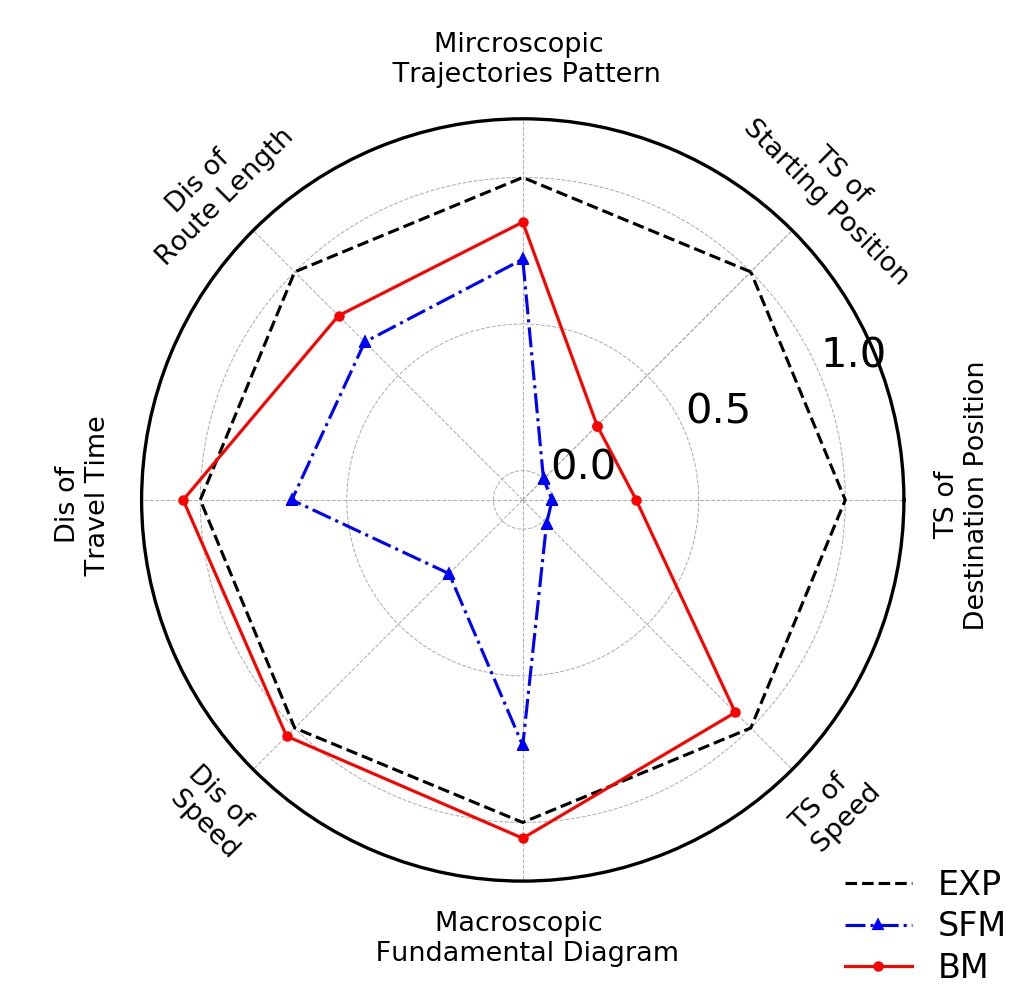
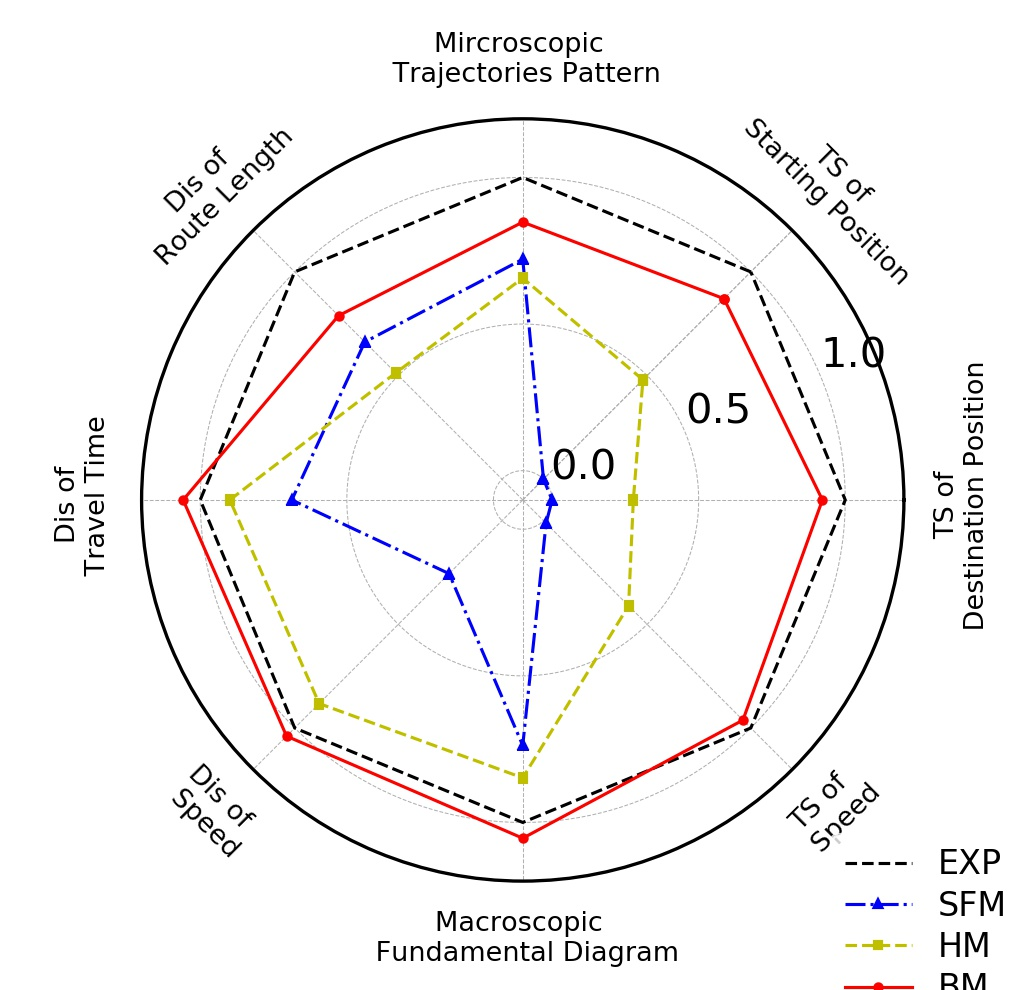
update

diff --git a/Evaluation.py b/Evaluation.py
@@ -212,7 +212,7 @@ def CalculateSpeedList(trajectories_list_list, fps):
 
 
 # Time series - Distance to original point and destination point
-def CalculatePointTimeSeries(trajectories_list_list, position, cutoff_distance):
+def CalculatePointTimeSeries(trajectories_list_list, position, cutoff_distance, fps):
     distance_ts_list = []
     for k in range(len(trajectories_list_list)):
         distance_ts = []
@@ -223,7 +223,7 @@ def CalculatePointTimeSeries(trajectories_list_list, position, cutoff_distance):
             distance = distance / len(trajectories_list_list[k])
             if (cutoff_distance < distance
                     < norm(np.array(Original_Point) - np.array(Destination_Point)) - cutoff_distance):
-                distance_ts.append((j, distance))
+                distance_ts.append((len(distance_ts), distance))
         distance_ts_list.append(distance_ts)
     return distance_ts_list
 
@@ -240,7 +240,7 @@ def CaculateSpeedTimeSeries(trajectories_list_list, cutoff_speed, fps):
                     np.array(trajectories_list_list[k][i][j + 1]) - np.array(trajectories_list_list[k][i][j])) * fps
             speed = speed / len(trajectories_list_list[k])
             if speed > cutoff_speed:
-                speed_ts.append((j, speed))
+                speed_ts.append((len(speed_ts), speed))
         speed_ts_list.append(speed_ts)
     return speed_ts_list
 
@@ -312,14 +312,14 @@ def Evaluation(oripoint, destpoint, ori_exp_trajectories_list_list, ori_sim_traj
 
     # Times series - Original position
     index_TS_OriPoint = SimilarityIndexes(
-        CalculatePointTimeSeries(exp_trajectories_list_list, oripoint, cutoff_distance),
-        CalculatePointTimeSeries(sim_trajectories_list_list, oripoint, cutoff_distance),
+        CalculatePointTimeSeries(exp_trajectories_list_list, oripoint, cutoff_distance, fps),
+        CalculatePointTimeSeries(sim_trajectories_list_list, oripoint, cutoff_distance, fps),
         "dtw-ts", '-oripoint')
 
     # Times series - Destination position
     index_TS_DestPoint = SimilarityIndexes(
-        CalculatePointTimeSeries(exp_trajectories_list_list, destpoint, cutoff_distance),
-        CalculatePointTimeSeries(sim_trajectories_list_list, destpoint, cutoff_distance),
+        CalculatePointTimeSeries(exp_trajectories_list_list, destpoint, cutoff_distance, fps),
+        CalculatePointTimeSeries(sim_trajectories_list_list, destpoint, cutoff_distance, fps),
         "dtw-ts", '-destpoint')
 
     # Time series - Speed
@@ -347,8 +347,8 @@ if __name__ == "__main__":
     Cutoff_Distance = 1  # cut-off distance
     Ori_Fps = 25  # flames per second
     Dest_Fps = 5  # flames per second
-    Labels = ['EXP', 'SFM', 'BM']
-    Line_Styles = ['k--', 'b^-.', 'ro-', 'ys--', 'gv:']
+    Labels = ['EXP', 'SFM', 'HM', 'BM']
+    Line_Styles = ['k--', 'b^-.', 'ys--', 'ro-', 'gv:']
     # Folder_Name = r'C:\Users\xiaoy\Nut\Nutstore\Codes\Pedestrian Dynamics\Code_Voronoi_x1' \
     #               r'\PedestrianFlow_Forcebasedmodel\bin\Debug\Evaluation-Test'
     Folder_Name = r'BaseData'

diff --git a/Similarity.py b/Similarity.py
@@ -158,7 +158,6 @@ def DtwDis(p, q, zones):
 
 
 def DtwTS(s1, s2):
-
     return DtwX(s1, s2) / len(s2), len(s2)
 
 
